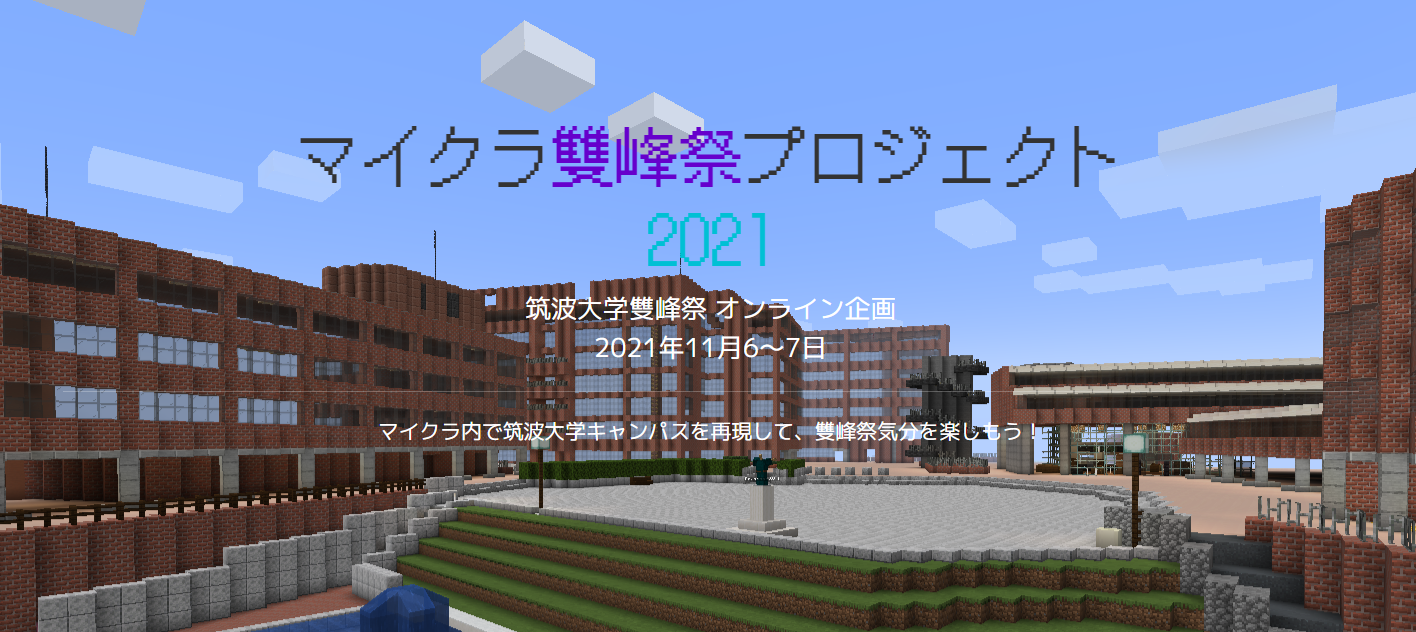
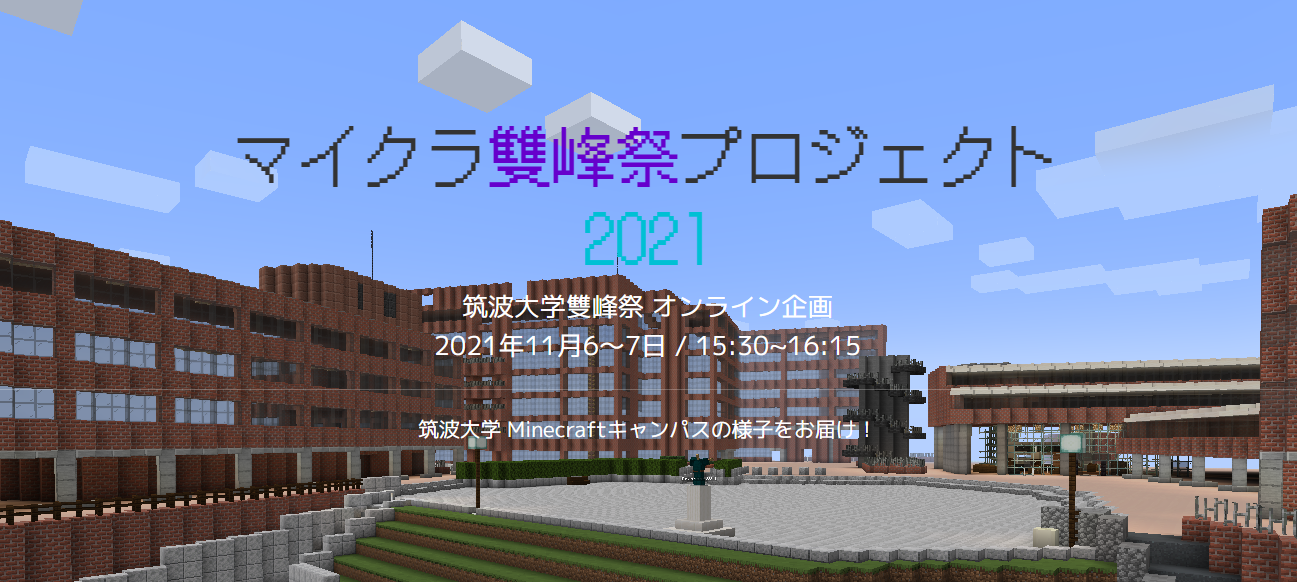
文言の変更（参加できない旨、開催時間等）、Twitter-Cardの更新

diff --git a/src/components/MainPage.vue b/src/components/MainPage.vue
@@ -3,7 +3,7 @@
     <b-container fluid>
       <b-row>
         <div class="col">
-          <b-row class="mb-4 px-2 about"
+          <b-row class="mb-3 px-2 about"
                  :style="{ 'background-image': 'url(' + oakTexture + ')' }">
 
             <div class="col-lg-1" />
@@ -37,74 +37,28 @@
         <div class="col-lg-1" />
 
         <div class="col-lg-10">
-          <b-row class="mt-3 mx-1" id="about">
+          <b-row class="mx-1 mb-4" id="about">
             <div class="col-lg">
-              <h3 class="title title-about">About</h3>
+              <h3 class="title title-about mt-3">About</h3>
               <p>
-                マイクラ雙峰祭プロジェクトは、2021年11月6日（土）と7日（日）にオンラインで開催される雙峰祭での企画です。<br />
-                筑波大学キャンパスをMinecraft内で再現して、雙峰祭当日にサーバーを開放します。サーバー内ではキャンパスの制作やイベント等を行う予定です。<br />
-                また、当日は生配信も予定しております！<br />
-
-                <br />
-                現在十数名ほどで運営していますが、当日までにキャンパスのベースとなる建築を行う運営メンバーを募集しております。（Minecraft Java Editionを持っている必要があります）興味がありましたら<a href="https://twitter.com/micra_sohopjt">Twitter</a>のDMまでお声掛けください。<br />
-                また当日の解放前に試験的にサーバーを開放する場合もありますので、その際はぜひご協力をお願いします。
+                マイクラ雙峰祭プロジェクトは、<b>2021年11月6日（土）と7日（日）の15:30~16:15</b>にオンラインで開催される雙峰祭での企画です。<br />
+                筑波大学キャンパスをMinecraft内で再現して、<b>雙峰祭当日に生配信</b>にてその様子をお届けします！<br /><br />
+                <b>※都合により一般の方の雙峰祭中のサーバー参加はできなくなってしまいました。</b><br />
+                楽しみにされていた方には申し訳ありませんが、ご理解していただけると幸いです。<br /><br />
+                なお<b>雙峰祭の終了後、一般向けにサーバーを開放</b>しますので、キャンパス建築にもぜひご参加ください！<br />
               </p>
+              <div class="text-center mb-4">
+                <p>
+                  <a href="" class="btn btn--orange btn-c">YouTube Liveに参加</a>
+                  <br />
+                </p>
+              </div>
             </div>
-          </b-row>
-
-          <hr />
-
-          <b-row class="mt-3 mx-1" id="join">
-            <div class="col-lg">
-              <h3 class="title title-join">How to Join</h3>
-              <p>クロスプラットフォームでプレイすることができるため、以下のデバイスから参加することができます。</p>
-            </div>
-          </b-row>
-
-          <b-row class="mb-4 mx-1">
-            <div class="col-lg-6 mt-4">
-              <h5 class="title-text">Minecraft Java Edition v1.17.1</h5>
-              <p>
-                PC<br /><br />
-                アドレス：現在非公開<br />
-                ポート：現在非公開<br /><br />
-                ※MojangまたはMicrosoftアカウントでログインしている必要があります。<br />
-                ※Java EditionはMinecraft公式サイトからインストールしたものです。
-              </p>
-              <b-row>
-                <div class="col text-center">
-                  <img :src="desktopIcon" alt="desktop" class="platform-icon" />
-                </div>
-              </b-row>
-              <b-row>
-                <div class="col text-center">
-                  <img :src="minecraftLogo" alt="minecraft" class="minecraft-logo" onclick="window.location='https://www.minecraft.net/ja-jp/store/minecraft-java-edition'" />
-                </div>
-              </b-row>
-            </div>
-
-            <div class="col-lg-6 mt-4">
-              <h5 class="title-text">Minecraft 統合版 v1.17.11</h5>
-              <p>
-                Windows 10 / iOS / Android / Nintendo Switch<br /><br />
-                アドレス：現在非公開<br />
-                ポート：現在非公開<br /><br />
-                ※Microsoft XBoxアカウントでログインしている必要があります。<br />
-                ※Java版に準拠しているため、一部のブロックが使えないなどの問題が起こる場合があります。
-              </p>
-              <b-row>
-                <div class="col text-center">
-                  <img :src="desktopIcon" alt="desktop" class="platform-icon" />
-                  <img :src="smartphoneIcon" alt="smartphone" class="platform-icon mx-4" />
-                  <img :src="switchIcon" alt="switch" class="platform-icon" />
-                </div>
-              </b-row>
-              <b-row>
-                <div class="col text-center mt-4">
-                  <img :src="appStore" alt="desktop" class="app-store" onclick="window.location='https://apps.apple.com/jp/app/minecraft/id479516143'" />
-                  <img :src="googlePlay" alt="desktop" class="google-play" onclick="window.location='https://play.google.com/store/apps/details?id=com.mojang.minecraftpe&hl=ja&gl=US'" />
-                </div>
-              </b-row>
+            <div class="youtube">
+              <iframe width="560" height="315"
+                      src="https://www.youtube.com/embed/0OcRTXVHzHY"
+                      frameborder="0" allow="autoplay; encrypted-media" allowfullscreen>
+              </iframe>
             </div>
           </b-row>
         </div>
@@ -219,5 +173,43 @@ a:visited {
 .title-join:first-letter {
   color: #5E9D34;
 }
+
+.youtube {
+  position: relative;
+  width: 100%;
+  padding-top: 56.25%;
+  margin: 0 auto;
+}
+
+.youtube iframe {
+  position: absolute;
+  top: 0;
+  right: 0;
+  width: 100%;
+  height: 100%;
+}
+
+/*その他主な共通部分は省略*/
+
+a.btn--orange {
+  color: #fff;
+  background-color: #c4302b;
+}
+
+a.btn--orange:hover {
+  color: #fff;
+  background: #D64946;
+}
+
+a.btn-c {
+  font-size: 1.5rem;
+  position: relative;
+  padding: 1.0rem 3rem 1.0rem 3rem;
+}
+
+a.btn-c i.fa {
+  margin-right: 1rem;
+}
+
 
 </style>

diff --git a/src/components/HowToPlayPage.vue b/src/components/HowToPlayPage.vue
@@ -9,28 +9,27 @@
           このページでは雙峰祭当日の遊び方と注意事項について説明します。<br />
         </p>
 
-        <h6 class="title-sub mt-4">キャンパス建設</h6>
+        <h4 class="title-play mt-4">生配信企画</h4>
         <p>
-          サーバー内にはある程度筑波大学本キャンパスが建築されていますが、当日も引き続きキャンパスの建築を行います。<br />
-          拡張するもよし、既存のキャンパスを更に作りこむもよし。思い思いのキャンパスをみんなで作ろう！<br />
+          当初の告知とは異なり、残念ながら一般の方にサーバーに入っていただいて筑波大学 Minecraftキャンパスを楽しんでいただくことはできなくなってしまいました。<br />
+          そこで、予定を変更して<b>サーバー内の生配信</b>を行うこととなりました！<br /><br />
+          配信では、サーバー内の様子やミニゲームの様子をお届けする予定です。ぜひご参加ください！<br /><br />
         </p>
 
-        <h6 class="title-sub mt-4">イベント企画</h6>
+        <h4 class="title-attention mt-4">雙峰祭後の楽しみ方（予定）</h4>
         <p>
-          当日は制作したキャンパスの中でイベントを行う予定です。<br />
-          詳細は未定ですが、たくさんの方の参加をお待ちしております！！<br />
-        </p>
-
-        <h6 class="title-sub mt-4">生配信</h6>
-        <p>
-          更に、サーバー内の様子を生配信にてお届けすることになっています！<br />
-          残念ながらマイクラ雙峰祭プロジェクトに参加できなかった方も、生配信を通して一生に楽しみましょう！
+          <b>雙峰祭後、改めて一般ユーザー向けにサーバーを開放</b>し、キャンパス建築を楽しんでもらおうと考えています。<br />
+          そして、建設したキャンパスの中でのミニゲームやイベント企画の開催も検討しています。<br />
+          その際には当サイトやTwitter上で告知いたしますので、ぜひご確認ください。
         </p>
 
         <hr class="my-4" />
 
         <h5 class="title title-attention" id="attention">Attention</h5>
         <p>
+          <b>生配信時</b><br />
+          ・コメント欄では節度ある言動を心がけ、誹謗中傷や公序良俗に反する内容や、その他不適切な内容を書き込むことはおやめください。<br /><br />
+          <b>サーバーに参加する際</b><br />
           ・当日はサーバーへの負荷を考慮し参加人数に制限をかけさせていただきますので、譲り合ってご参加ください。<br />
           ・サーバーに負荷をかける行為は行わないでください。<br />
           ・Mod等チートツールを使用しての参加はご遠慮ください。<br />

diff --git a/src/components/HeaderMenu.vue b/src/components/HeaderMenu.vue
@@ -10,10 +10,9 @@
       <b-collapse id="nav-collapse" class="navbar-collapse justify-content-end" is-nav>
         <b-navbar-nav>
           <b-nav-item right to="/#about">About</b-nav-item>
-          <b-nav-item right to="/#join">参加方法</b-nav-item>
           <b-nav-item right to="/how_to_play#top">遊び方</b-nav-item>
           <b-nav-item right to="/how_to_play#attention">注意事項</b-nav-item>
-          <b-nav-item right to="/donation#donation">寄付について</b-nav-item>
+          <b-nav-item right href="#">YouTube Live</b-nav-item>
           <b-nav-item right href="https://twitter.com/micra_sohopjt">Twitter</b-nav-item>
         </b-navbar-nav>
       </b-collapse>

diff --git a/src/components/HeaderContent.vue b/src/components/HeaderContent.vue
@@ -8,12 +8,12 @@
       <template #lead>
         <span class="description">
           筑波大学雙峰祭 オンライン企画<br />
-          2021年11月6～7日
+          2021年11月6～7日 / 15:30~16:15
         </span>
       </template>
       <hr class="my-4" />
       <p class="description">
-        マイクラ内で筑波大学キャンパスを再現して、雙峰祭気分を楽しもう！
+        筑波大学 Minecraftキャンパスの様子をお届け！
       </p>
     </b-jumbotron>
   </div>
